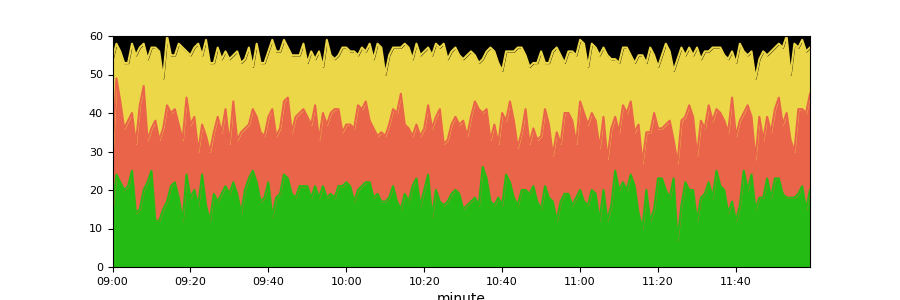
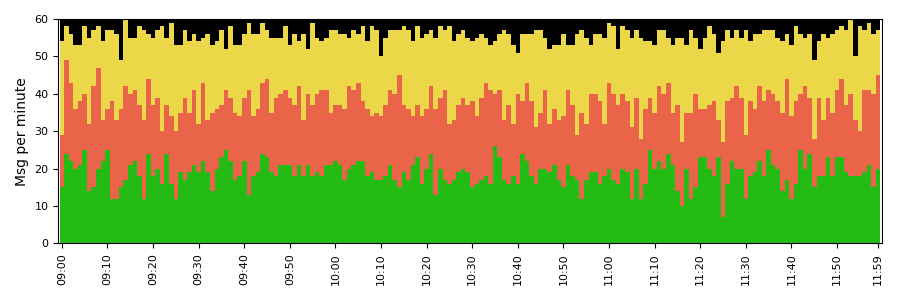
Improve python graph

diff --git a/part-2/python/stream-graph.py b/part-2/python/stream-graph.py
@@ -24,12 +24,30 @@ df2["drops"] = 0
 for t in df2.index:
   df2["drops"][t] = reduce(lambda x, status: x - df2[status][t], statuses, 60)
 
-df2.plot.area(
+df2.plot.bar(
   figsize=(9, 3),
   legend=False,
+  stacked=True,
   ylim=(0, 60),
   fontsize=8,
+  width=1.0,
   color=["#24BC14", "#EA644A", "#ECD748", "#000000"]
 )
 
+plt.ylabel("Msg per minute")
+plt.xlabel("")
+locs, labels = plt.xticks()
+nlocs = list()
+nlabels = list()
+
+for i in range(len(locs)):
+  if i % 10 != 0: continue
+  nlocs.append(locs[i])
+  nlabels.append(labels[i])
+
+nlocs.append(179)
+nlabels.append(labels[-1])
+plt.xticks(nlocs, nlabels)
+
+plt.tight_layout()
 plt.savefig(sys.stdout.buffer)
